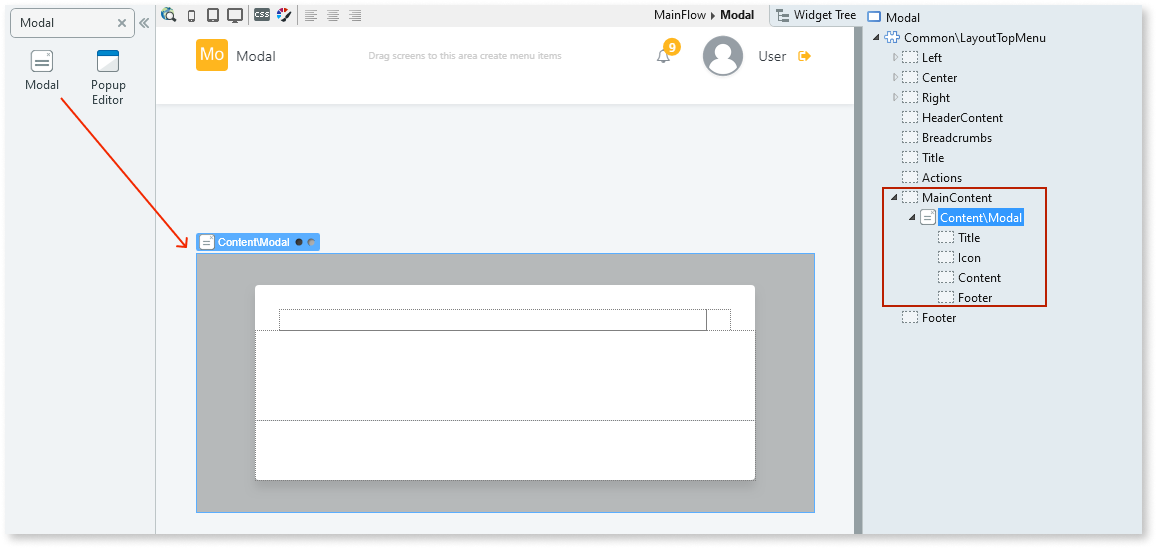
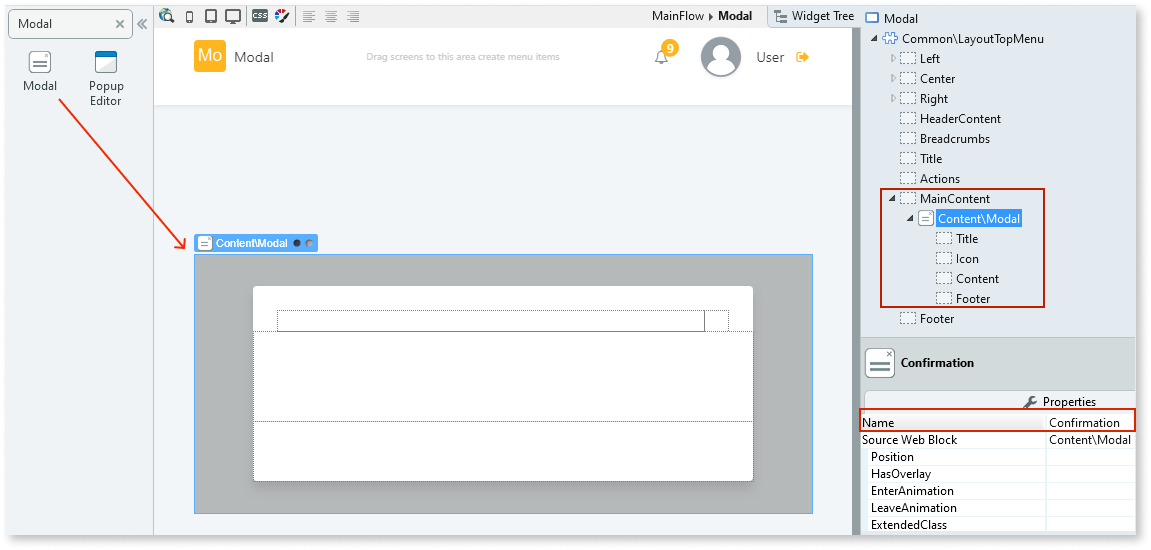
Updates to Modal and Chat Message UI Patterns

diff --git a/src/develop/ui/patterns/web/content/modal.md b/src/develop/ui/patterns/web/content/modal.md
@@ -7,11 +7,11 @@ summary: Modal is a box with content that interrupts the end user and demands an
 
 You can use the Modal UI Pattern to interrupt the end user and demand an action. It is implemented to direct an end user’s attention to important information. Ideal for when the end user is requested to enter information critical to continuing the current process.
 
- ![](<images/modal-1.png>)
+ ![](<images/modal-1.png?width=800>)
 
 **How to use the Modal UI Pattern**
 
-After placing a Modal on the screen, open it by calling a new screen action using a button with its method set to Ajax submit and use the Toggle Modal action (found in the Logic Tab). Use the pattern parameters to define if it has an Overlay, its Position in the page and the Enter/Leave animations. Note that you need to enter a value in the Name field of the widgets to be able to select their IDs.
+For the purposes of this example, our app already contains a form where the user can enter their queries, and once they send their message, a confirmation message appears by using the Modal widget. 
 
 1. In Service Studio, in the Toolbox, search for `Modal`.
   
@@ -19,43 +19,46 @@ After placing a Modal on the screen, open it by calling a new screen action usin
 
     ![](<images/modal-5-ss.png>)
 
-1. To From the Toolbox, drag the Modal widget into the Main Content area of your application's screen. 
+1. To From the Toolbox, drag the Modal widget into the Main Content area of your application's screen, and on the **Properties** tab, enter a name for the widget. In this example we enter ``Confirmation``. 
 
-   ![](<images/modal-6-ss.png>)
+   ![](<images/modal-6-ss.png?width=800>)
 
     By default, the Modal widget contains Title, Icon, Content, and Footer placeholders.
 
-1. Add your content to the placeholders.
-1. Use a Button Widget or a Link with Ajax Submit to open the Modal Pattern.
-1. In the Destination property, create a new screen action to trigger the modal.
+1. Add your content to the placeholders. In this example we add text to the Title placeholder, text to the Content placeholder, and 2 buttons (Yes and No) to the Footer placeholder. 
 
-    ![](<images/modal-2-ss.png>)
+   ![](<images/modal-7-ss.png?width=800>)
 
-1. Inside the action created, use the action ToggleModal and set the WidgetID.
+1. In this example, to open the Modal widget, we need to set the **Method** and **Destination** properties for the **Yes** button. To do this, select the **Yes** button, and on the **Properties** tab, from the **Method** drop-down, select **Ajax Submit** and from the **Destination** select **New Screen Action**
 
-    ![](<images/modal-3-ss.png>)
+   ![](<images/modal-8-ss.png?width=800>)
 
-1. On the **Properties** tab, change the Modal's look and feel by setting the (optional) properties.
+1. Enter a name for the screen action. In this example, we enter ``ConfirmSend``.
 
-    ![](<images/modal-4-ss.png>)
-   
-When adding Modal to your app, set the correct TriggerButtonId to ensure accessibility support, as this ensures proper focus and accessibility support.
+   ![](<images/modal-11-ss.png?>)
+
+1. Select the **Logic** tab, navigate to **OutSystemsUIWeb > Modal** and drag the **ToggleModal** onto the screen action.
+
+   ![](<images/modal-9-ss.png?width=800>)
+
+1. On the **properties** tab, from the **WidgetId** drop-down, select the Id of the Modal widget. In this example, we select **Confirmation.Id**.
+
+    ![](<images/modal-10-ss.png>)
+
+1. In this example, to close the Modal, we need to set the **Method** and **Destination** properties for the **No** button. To do this, double-click your screen name, select the **No** button, and on the **Properties** tab, from the **Method** drop-down, select **Ajax Submit** and from the **Destination** select the screen action you previously created. In this case **ConfirmSend**.
+
+    ![](<images/modal-12-ss.png?>)
+
+1. On the **Properties** tab, you can change the Modal's look and feel by setting the (optional) properties.
+
+    ![](<images/modal-4-ss.png?>)  
 
 After following these steps and publishing the module, you can test the pattern in your app.
-    
-**How to close the Modal**
 
-Users can close the modal widget by pressing the ESC key. If you want to give users an option to close the modal with the button or a link:
+The result of this example looks something like the following:
 
-1. Add a button or a link into the Modal widget.
-1. Go to the link/button properties and in the **On Click** section:
-    
-    * In the **Method** list select **Ajax Submit**.
-    * In the **Destination** list select the same action you created to open the modal dialog.
-    
-    The **ToggleModal** action in the existing action closes the modal if it's opened, and opens the modal if it's closed.
- 
- 1. Publish the app and verify the modal closes correctly.
+![](<images/modal-13-ss.png?width=800>)    
+
 
 ## Properties
 

diff --git a/src/develop/ui/patterns/web/content/chatmessage.md b/src/develop/ui/patterns/web/content/chatmessage.md
@@ -11,21 +11,42 @@ You can use the Chat Message UI Pattern to display conversational posts in notif
 
 **How to use the Chat Message UI Pattern**
 
+For the purposes of this example, our app already contains a form where the user can enter their queries, and once they send their message, it will appear as a conversational post by using the Chat Message widget. 
+
 1. In Service Studio, in the Toolbox, search for `Chat Message`.
   
      The Chat Message widget is displayed.
 
     ![](<images/chatmessage-1-ss.png>)
 
-1. To From the Toolbox, drag the Chat Message widget into the Main Content area of your application's screen. 
+1. To From the Toolbox, drag the Chat Message widget into the Main Content area of your application's screen.
 
     ![](<images/chatmessage-2-ss.png>)
 
     By default, the Chat Message widget contains Image, Name, Content, and Actions placeholders.
 
-1. Add your content to the placeholders.
+1. Add the relevant content to the placeholders. 
+
+    * In this example, so that the name the user enters in the form is displayed, we convert the Name placeholder to an expression and enter the relevant logic. To do this, we right-click the Name placeholder, select **Convert to Expression**, and in the **Expression Value** pop-up, navigate to the Name attribute, and click **Done**.
+
+        ![](<images/chatmessage-4-ss.png>)
+
+        ![](<images/chatmessage-5-ss.png>)
+
+    * So that the message the user enters in the form is displayed, we convert the Content placeholder to an expression and enter the relevant logic. To do this, we repeat the previous step, but this time, navigate to the Message attribute.
+
+        ![](<images/chatmessage-8-ss.png>)
+
+1. You can customize the Chat Message's look and feel by setting the (optional) properties on the **Properties** tab.
+
+    ![](<images/chatmessage-9-ss.png>)
 
 After following these steps and publishing the module, you can test the pattern in your app.
+
+The result of this example looks something like the following:
+
+![](<images/chatmessage-6-ss.png?width=800>)
+
 
 
 ## Properties
